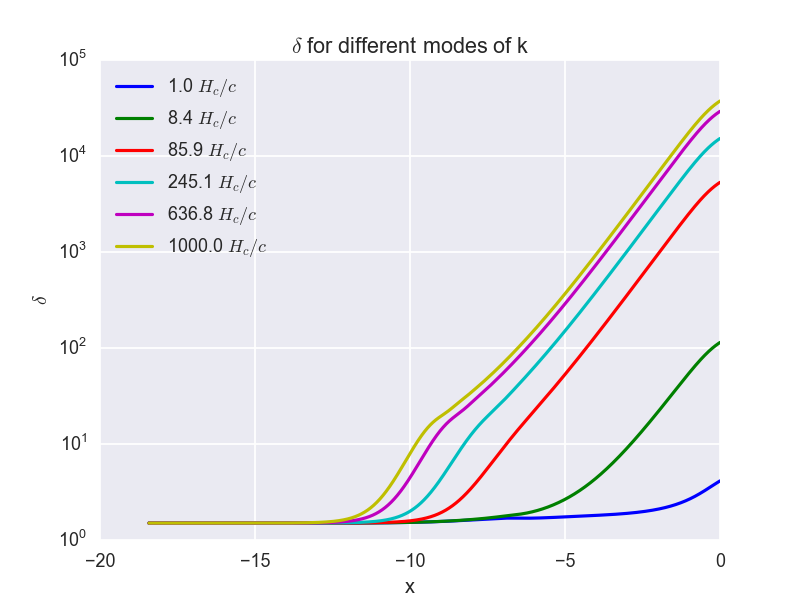
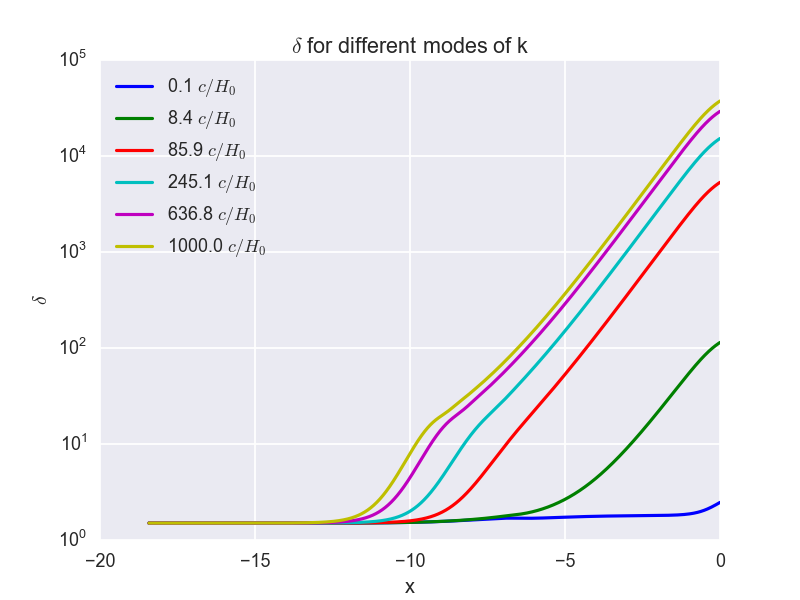
Changed the smallest k from 1 to 0.1. Changed H_0/c to c/H_0

Changed region(s): [[0.6875, 0.81, 0.9062, 0.87], [0.25, 0.24, 0.3438, 0.42], [0.1875, 0.12, 0.3125, 0.21]]

diff --git a/milestone3/analysis/milestone3.py b/milestone3/analysis/milestone3.py
@@ -20,9 +20,9 @@ def read_file(name):
 def plot_quantity(y,x,k,nb_modes,title,xlab,ylab,name="",save=False,log_axis=False):
     for i in range(nb_modes):
         if log_axis:
-            plt.semilogy(x,y[i],label=r"%.1f $H_c /c $"%k[i])    
+            plt.semilogy(x,y[i],label=r"%.1f $c /H_0$"%k[i])    
         else:
-            plt.plot(x,y[i],label=r"%.1f $H_c /c $"%k[i])
+            plt.plot(x,y[i],label=r"%.1f $c /H_0$"%k[i])
 
     plt.title(title)
     plt.xlabel(xlab)
@@ -88,6 +88,7 @@ if __name__ == "__main__":
     plot_quantity(v_b,x,k,nb_modes,r"$v_b$ for different modes of k","x",r"$v_b$")
 
     plot_quantity(theta[:,0],x,k,nb_modes,r"$\Theta_0$ for different modes of k","x",r"$\Theta_0$")
+    plot_quantity(theta[:,1],x,k,nb_modes,r"$\Theta_1$ for different modes of k","x",r"$\Theta_1$")
 
 
 
